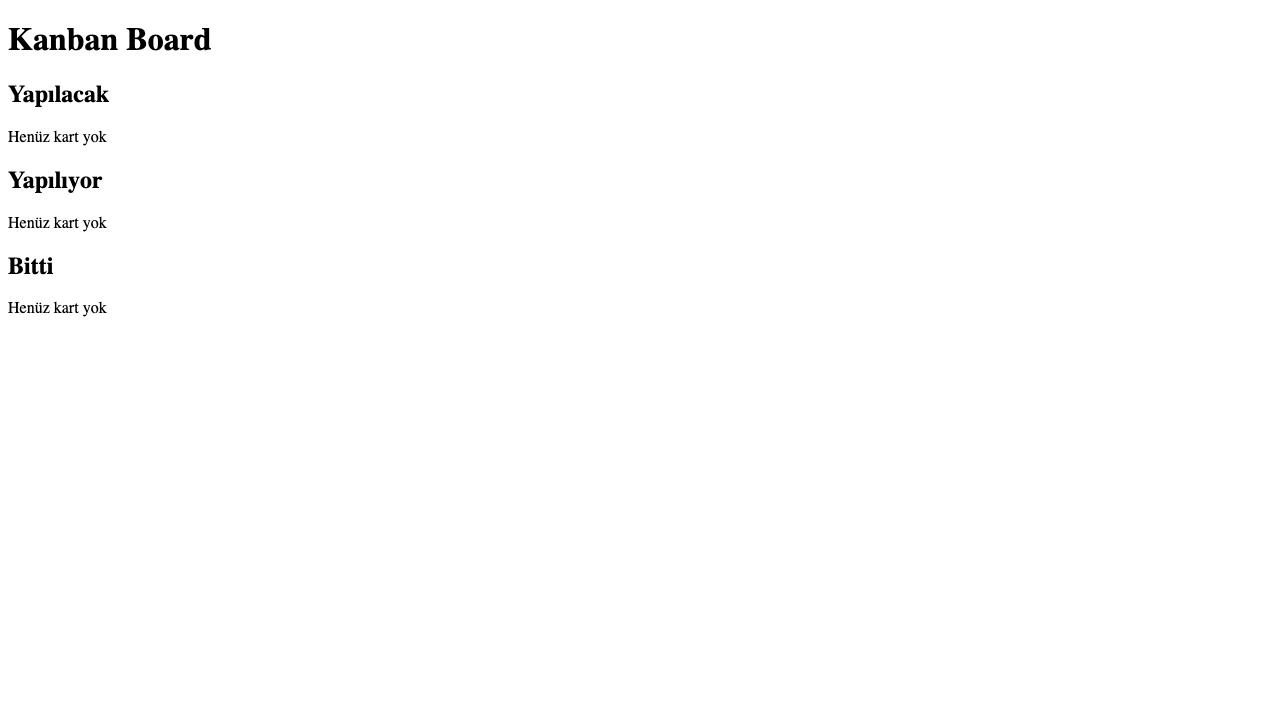
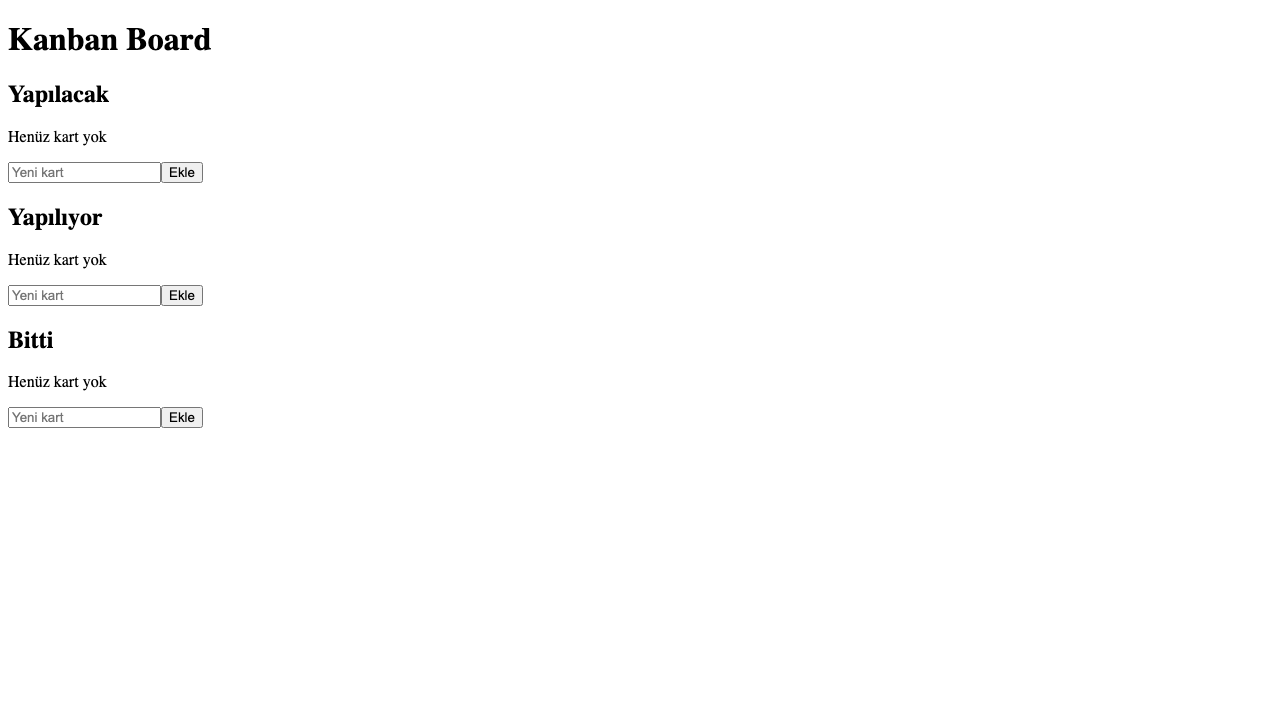
feat: kart başlığını düzenleme özelliğini ekle ve API'ye kaydet
Kart üzerindeki Düzenle butonu başlığı satır içi forma çevirir; Kaydet
güncellenmiş board'u API'ye yazar, İptal değişikliği geri alır, boş
başlık kaydedilmez. Bileşen testleri ve Playwright e2e testi ile
doğrulandı (artifacts/edit-card.png).

diff --git a/tests/board-component.test.jsx b/tests/board-component.test.jsx
@@ -141,6 +141,98 @@ test('boş ya da yalnızca boşluktan oluşan başlıkla kart eklenmez', async (
   expect(within(todo).getByText('Henüz kart yok')).toBeTruthy()
 })
 
+test('düzenle butonuna basınca kartın başlığı düzenleme alanında açılır', async () => {
+  fetchBoard.mockResolvedValue(boardWithCards())
+
+  render(<Board />)
+
+  const todo = await screen.findByRole('region', { name: 'Yapılacak' })
+  fireEvent.click(within(todo).getByRole('button', { name: 'Düzenle' }))
+
+  const input = within(todo).getByLabelText('Kart başlığını düzenle')
+  expect(input.value).toBe('Alışveriş listesi yaz')
+})
+
+test('kart başlığı düzenlenince güncellenir ve API\'ye kaydedilir', async () => {
+  fetchBoard.mockResolvedValue(boardWithCards())
+
+  render(<Board />)
+
+  const todo = await screen.findByRole('region', { name: 'Yapılacak' })
+  fireEvent.click(within(todo).getByRole('button', { name: 'Düzenle' }))
+  fireEvent.change(within(todo).getByLabelText('Kart başlığını düzenle'), {
+    target: { value: 'Alışveriş listesini güncelle' },
+  })
+  fireEvent.click(within(todo).getByRole('button', { name: 'Kaydet' }))
+
+  expect(within(todo).getByText('Alışveriş listesini güncelle')).toBeTruthy()
+  expect(within(todo).queryByText('Alışveriş listesi yaz')).toBeNull()
+  expect(within(todo).queryByLabelText('Kart başlığını düzenle')).toBeNull()
+
+  expect(saveBoard).toHaveBeenCalledTimes(1)
+  const saved = saveBoard.mock.calls[0][0]
+  const savedTodo = saved.columns.find((column) => column.id === 'todo')
+  expect(savedTodo.cards).toHaveLength(1)
+  expect(savedTodo.cards[0]).toEqual({ id: 'c1', title: 'Alışveriş listesini güncelle' })
+})
+
+test('düzenleme yalnızca ilgili kartı değiştirir', async () => {
+  fetchBoard.mockResolvedValue(boardWithCards())
+
+  render(<Board />)
+
+  const inProgress = await screen.findByRole('region', { name: 'Yapılıyor' })
+  const editButtons = within(inProgress).getAllByRole('button', { name: 'Düzenle' })
+  fireEvent.click(editButtons[1])
+  fireEvent.change(within(inProgress).getByLabelText('Kart başlığını düzenle'), {
+    target: { value: 'Testleri tekrar koş' },
+  })
+  fireEvent.click(within(inProgress).getByRole('button', { name: 'Kaydet' }))
+
+  expect(within(inProgress).getByText('Raporu bitir')).toBeTruthy()
+  expect(within(inProgress).getByText('Testleri tekrar koş')).toBeTruthy()
+
+  const saved = saveBoard.mock.calls[0][0]
+  const savedInProgress = saved.columns.find((column) => column.id === 'in-progress')
+  expect(savedInProgress.cards).toEqual([
+    { id: 'c2', title: 'Raporu bitir' },
+    { id: 'c3', title: 'Testleri tekrar koş' },
+  ])
+})
+
+test('iptal edilince başlık değişmez ve API çağrılmaz', async () => {
+  fetchBoard.mockResolvedValue(boardWithCards())
+
+  render(<Board />)
+
+  const todo = await screen.findByRole('region', { name: 'Yapılacak' })
+  fireEvent.click(within(todo).getByRole('button', { name: 'Düzenle' }))
+  fireEvent.change(within(todo).getByLabelText('Kart başlığını düzenle'), {
+    target: { value: 'Vazgeçilen değişiklik' },
+  })
+  fireEvent.click(within(todo).getByRole('button', { name: 'İptal' }))
+
+  expect(within(todo).getByText('Alışveriş listesi yaz')).toBeTruthy()
+  expect(within(todo).queryByText('Vazgeçilen değişiklik')).toBeNull()
+  expect(saveBoard).not.toHaveBeenCalled()
+})
+
+test('boş başlıkla kaydetmeye çalışınca kart değişmez ve API çağrılmaz', async () => {
+  fetchBoard.mockResolvedValue(boardWithCards())
+
+  render(<Board />)
+
+  const todo = await screen.findByRole('region', { name: 'Yapılacak' })
+  fireEvent.click(within(todo).getByRole('button', { name: 'Düzenle' }))
+  fireEvent.change(within(todo).getByLabelText('Kart başlığını düzenle'), {
+    target: { value: '   ' },
+  })
+  fireEvent.click(within(todo).getByRole('button', { name: 'Kaydet' }))
+
+  expect(saveBoard).not.toHaveBeenCalled()
+  expect(within(todo).getByLabelText('Kart başlığını düzenle')).toBeTruthy()
+})
+
 test('kaydetme hatasında uyarı mesajı gösterilir', async () => {
   fetchBoard.mockResolvedValue(createEmptyBoard())
   saveBoard.mockRejectedValue(new Error('Kayıt başarısız'))

diff --git a/src/components/Board.jsx b/src/components/Board.jsx
@@ -13,6 +13,7 @@ export default function Board() {
   const [error, setError] = useState(null)
   const [saveError, setSaveError] = useState(null)
   const [drafts, setDrafts] = useState({})
+  const [editing, setEditing] = useState(null)
 
   useEffect(() => {
     let active = true
@@ -46,6 +47,25 @@ export default function Board() {
     saveBoard(next).catch((err) => setSaveError(err.message))
   }
 
+  function saveCardEdit() {
+    const title = (editing?.value ?? '').trim()
+    if (!title) return
+
+    const next = {
+      ...board,
+      columns: board.columns.map((column) => ({
+        ...column,
+        cards: column.cards.map((card) =>
+          card.id === editing.cardId ? { ...card, title } : card,
+        ),
+      })),
+    }
+    setBoard(next)
+    setEditing(null)
+    setSaveError(null)
+    saveBoard(next).catch((err) => setSaveError(err.message))
+  }
+
   if (error) return <p role="alert">{error}</p>
   if (!board) return <p>Yükleniyor…</p>
 
@@ -61,7 +81,36 @@ export default function Board() {
             <ul className="cards">
               {column.cards.map((card) => (
                 <li key={card.id} className="card">
-                  {card.title}
+                  {editing?.cardId === card.id ? (
+                    <form
+                      onSubmit={(event) => {
+                        event.preventDefault()
+                        saveCardEdit()
+                      }}
+                    >
+                      <input
+                        aria-label="Kart başlığını düzenle"
+                        value={editing.value}
+                        onChange={(event) =>
+                          setEditing((prev) => ({ ...prev, value: event.target.value }))
+                        }
+                      />
+                      <button type="submit">Kaydet</button>
+                      <button type="button" onClick={() => setEditing(null)}>
+                        İptal
+                      </button>
+                    </form>
+                  ) : (
+                    <>
+                      {card.title}
+                      <button
+                        type="button"
+                        onClick={() => setEditing({ cardId: card.id, value: card.title })}
+                      >
+                        Düzenle
+                      </button>
+                    </>
+                  )}
                 </li>
               ))}
             </ul>

diff --git a/e2e/edit-card.spec.js b/e2e/edit-card.spec.js
@@ -1,0 +1,26 @@
+import { test, expect } from '@playwright/test'
+
+test('kart düzenlenir, yeni başlık görünür ve yenilemeden sonra kalır', async ({ page }) => {
+  await page.goto('/')
+
+  const todo = page.getByRole('region', { name: 'Yapılacak' })
+  await todo.getByLabel('Yapılacak kolonuna yeni kart').fill('Düzenlenecek kart')
+  await todo.getByRole('button', { name: 'Ekle' }).click()
+  await expect(todo.getByText('Düzenlenecek kart')).toBeVisible()
+
+  await todo.getByRole('button', { name: 'Düzenle' }).click()
+  const input = todo.getByLabel('Kart başlığını düzenle')
+  await expect(input).toHaveValue('Düzenlenecek kart')
+  await input.fill('Playwright ile düzenlenen kart')
+  await todo.getByRole('button', { name: 'Kaydet' }).click()
+
+  await expect(todo.getByText('Playwright ile düzenlenen kart')).toBeVisible()
+  await expect(todo.getByText('Düzenlenecek kart')).toBeHidden()
+
+  await page.reload()
+  const todoAfterReload = page.getByRole('region', { name: 'Yapılacak' })
+  await expect(todoAfterReload.getByText('Playwright ile düzenlenen kart')).toBeVisible()
+  await expect(todoAfterReload.getByText('Düzenlenecek kart')).toBeHidden()
+
+  await page.screenshot({ path: 'artifacts/edit-card.png', fullPage: true })
+})

diff --git a/PLAN.md b/PLAN.md
@@ -18,7 +18,7 @@ GOAL.md'deki hedefin, her biri tek başına doğrulanabilir küçük görevlere 
 
 - [x] Üç sabit kolonu (Yapılacak / Yapılıyor / Bitti) API'den gelen verilerle render eden Board bileşenini yaz; bileşen testi + Playwright smoke ile doğrula
 - [x] Kart ekleme özelliğini yaz (kolona yeni kart, API'ye kaydedilsin); bileşen testi + Playwright ile doğrula
-- [ ] Kart düzenleme özelliğini yaz (başlık/metin güncelleme, API'ye kaydedilsin); bileşen testi + Playwright ile doğrula
+- [x] Kart düzenleme özelliğini yaz (başlık/metin güncelleme, API'ye kaydedilsin); bileşen testi + Playwright ile doğrula
 - [ ] Kart silme özelliğini yaz (API'den de silinsin); bileşen testi + Playwright ile doğrula
 
 ## 4. Sürükle-bırak (dnd-kit)